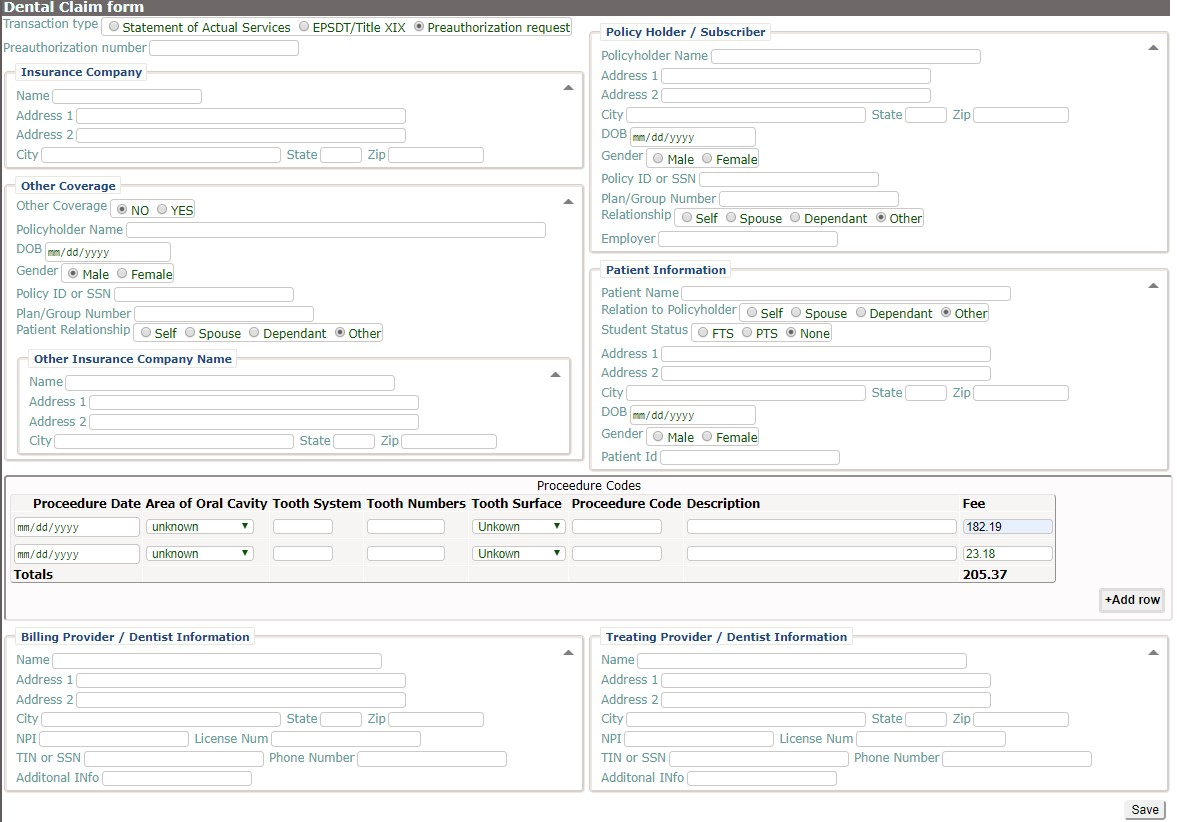
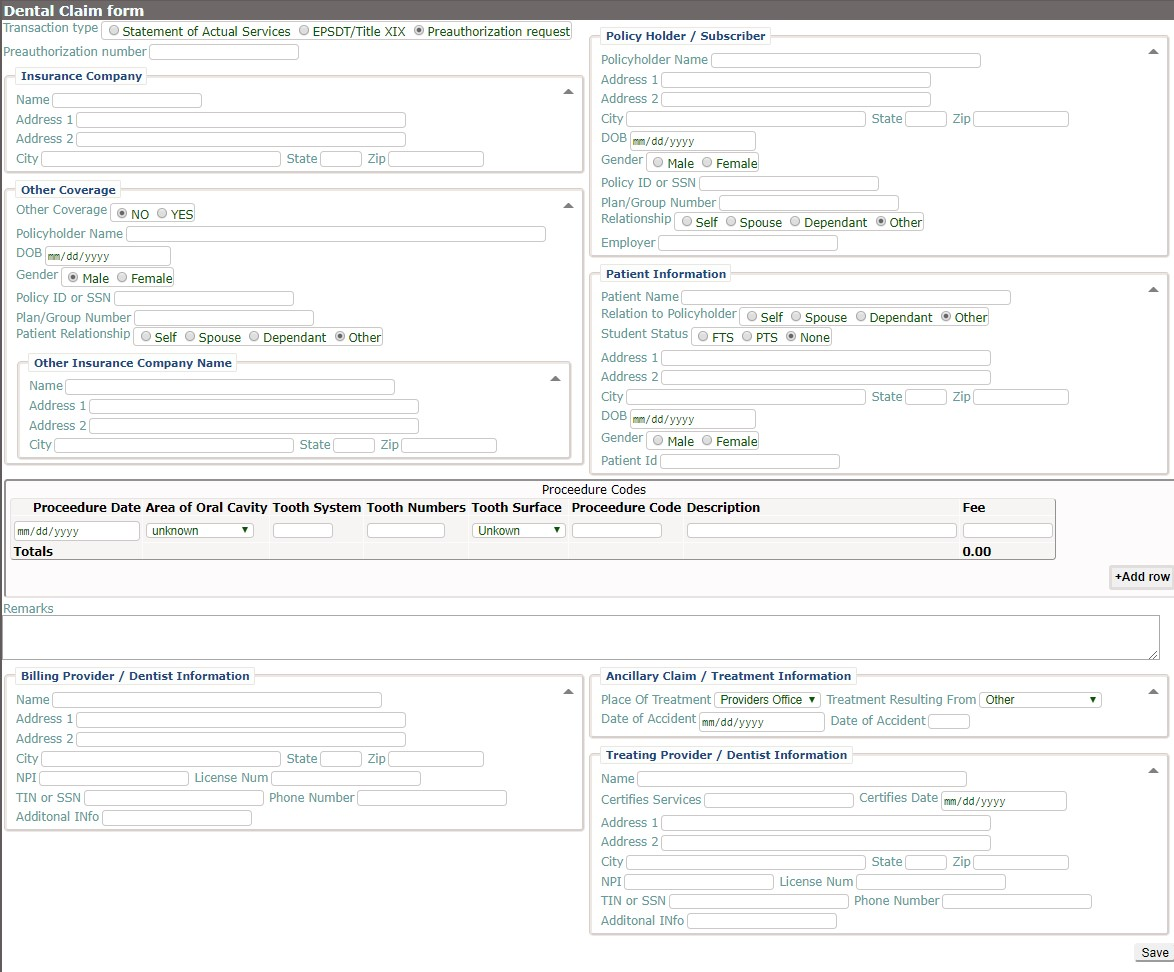
Added remarks and some ancillary claim information to dental claim sample.

diff --git a/docs/css/meta-forms.css b/docs/css/meta-forms.css
@@ -94,7 +94,7 @@ img.sampleImage {
 .vert_radioLabel,
 .hor_radioLabel {
     display: inline-block;
-    text-align: right;
+    text-align: left;
     vertical-align: top;
     color: cadetBlue;
     padding-left: 0.05em;
@@ -127,6 +127,9 @@ input.input_date {
 
 div.input_fieldCont {
     display: inline-block;
+    align-items: left;
+    text-align: left;
+    align-content: left;
 }
 
 input:focus,
@@ -157,6 +160,8 @@ div.vgroupcont div.hgroupcont {
     border-radius: 2px;
     background-color: rgb(226, 247, 247, 0.137);
     vertical-align: top;
+    align-items: left;
+    text-align: left;
 }
 
 legend.vgroupLeg {
@@ -396,4 +401,8 @@ button.mtableAddBut:hover {
 .allow_wrap {
     display: block;
     white-space: normal;
+}
+
+.label_wrap {
+    display: block;
 }

diff --git a/http-docs/css/meta-forms.css b/http-docs/css/meta-forms.css
@@ -94,7 +94,7 @@ img.sampleImage {
 .vert_radioLabel,
 .hor_radioLabel {
     display: inline-block;
-    text-align: right;
+    text-align: left;
     vertical-align: top;
     color: cadetBlue;
     padding-left: 0.05em;
@@ -127,6 +127,9 @@ input.input_date {
 
 div.input_fieldCont {
     display: inline-block;
+    align-items: left;
+    text-align: left;
+    align-content: left;
 }
 
 input:focus,
@@ -157,6 +160,8 @@ div.vgroupcont div.hgroupcont {
     border-radius: 2px;
     background-color: rgb(226, 247, 247, 0.137);
     vertical-align: top;
+    align-items: left;
+    text-align: left;
 }
 
 legend.vgroupLeg {
@@ -396,4 +401,8 @@ button.mtableAddBut:hover {
 .allow_wrap {
     display: block;
     white-space: normal;
+}
+
+.label_wrap {
+    display: block;
 }

diff --git a/docs/css/adaform.css b/docs/css/adaform.css
@@ -4,6 +4,7 @@
      margin: 0px;
      padding: 0px;
      width: auto;
+
  }
 
  #topRightFieldsGroupcont,
@@ -22,4 +23,18 @@
  #proceduresCont {
      min-width: 800px;
      max-width: 1330px;
+ }
+
+ #claimRemarksCont {
+     width: 98%;
+     max-width: 1330px;
+ }
+
+ #claimRemarks {
+     width: 100%;
+     -webkit-box-sizing: border-box;
+     /* Safari/Chrome, other WebKit */
+     -moz-box-sizing: border-box;
+     /* Firefox, other Gecko */
+     box-sizing: border-box;
  }

diff --git a/http-docs/css/adaform.css b/http-docs/css/adaform.css
@@ -4,6 +4,7 @@
      margin: 0px;
      padding: 0px;
      width: auto;
+
  }
 
  #topRightFieldsGroupcont,
@@ -22,4 +23,18 @@
  #proceduresCont {
      min-width: 800px;
      max-width: 1330px;
+ }
+
+ #claimRemarksCont {
+     width: 98%;
+     max-width: 1330px;
+ }
+
+ #claimRemarks {
+     width: 100%;
+     -webkit-box-sizing: border-box;
+     /* Safari/Chrome, other WebKit */
+     -moz-box-sizing: border-box;
+     /* Firefox, other Gecko */
+     box-sizing: border-box;
  }
